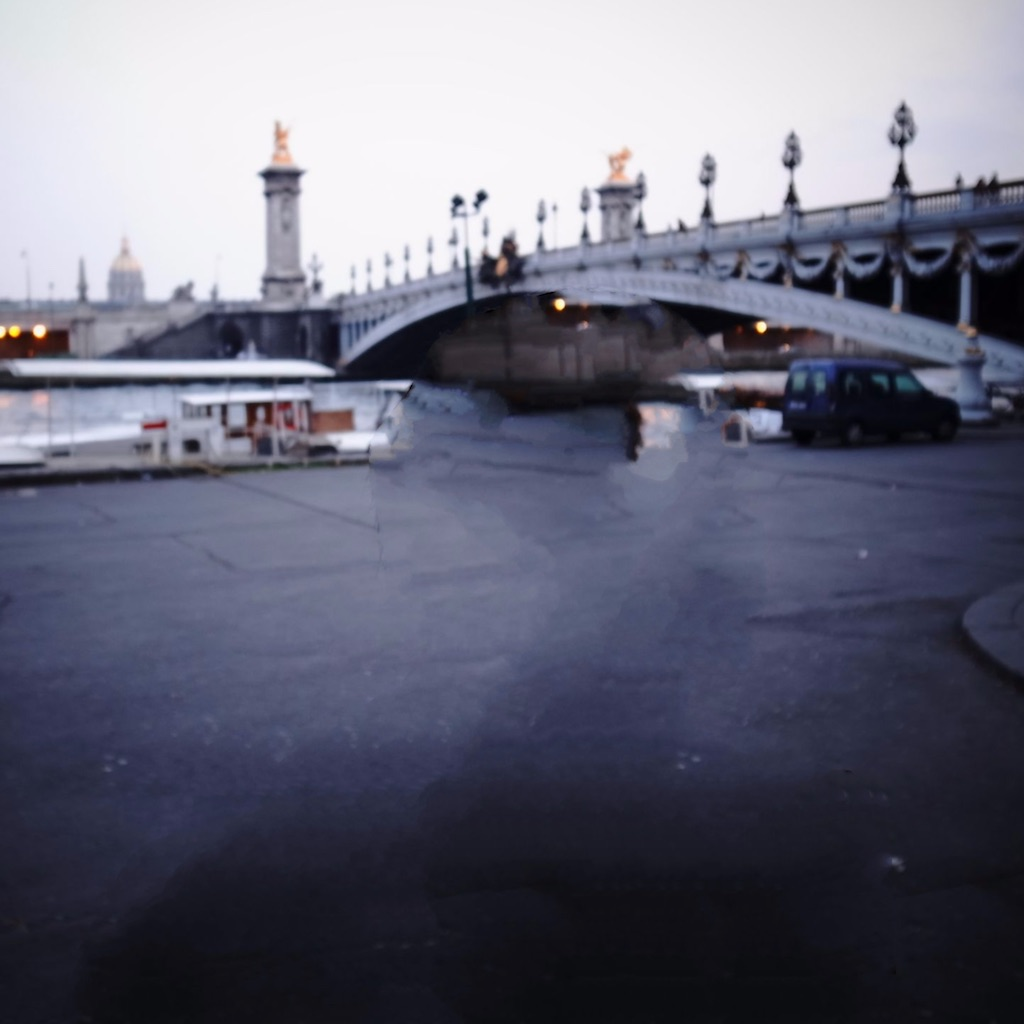
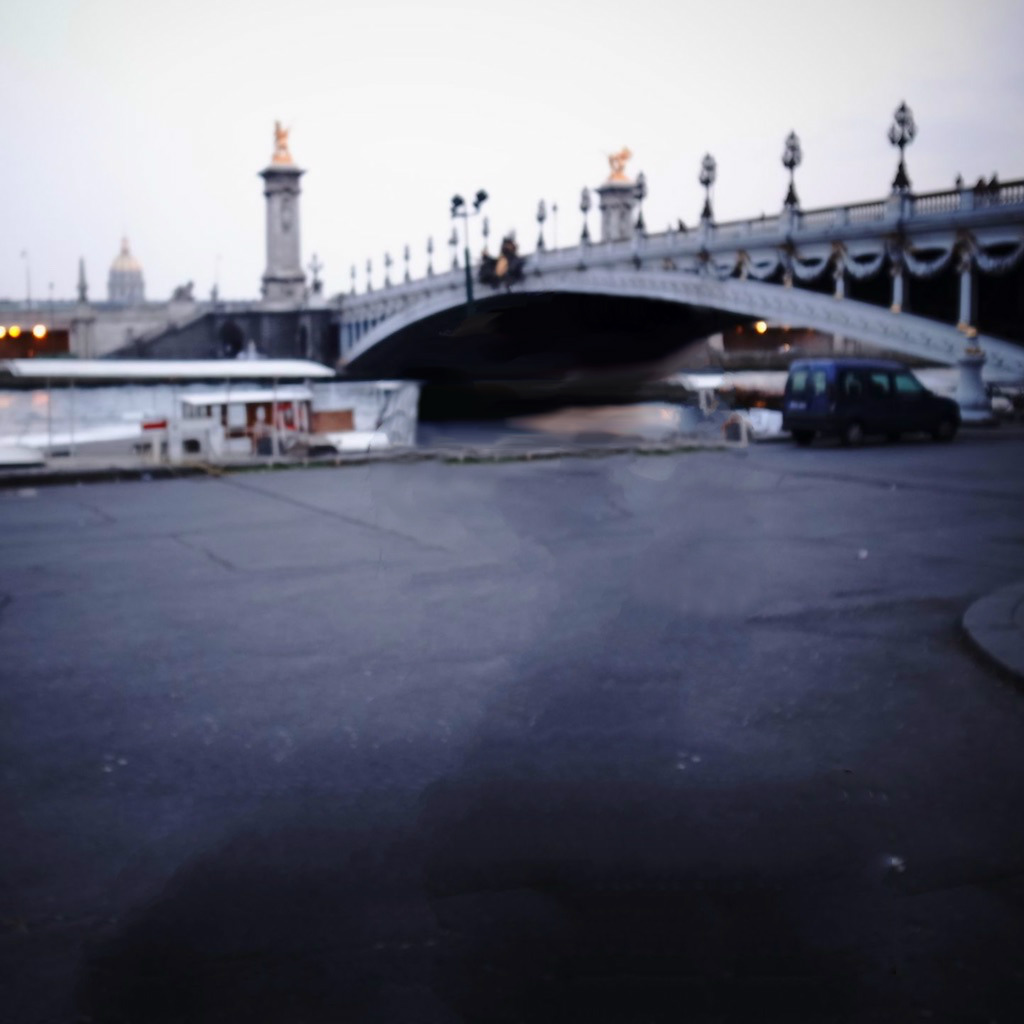
Be creative on the scene image

Changed region(s): [[0.3438, 0.2812, 0.6875, 0.5]]

diff --git a/assets/script.min.js b/assets/script.min.js
@@ -1,2 +1,2 @@
-"use strict";function ServiceWorkerController(){}function PicMotion(){}if(document.documentElement.classList.remove("no-js"),"timdream.org"===window.location.hostname&&"1"!==window.doNotTrack&&"1"!==navigator.doNotTrack){var _gaq=_gaq||[];_gaq.push(["_setAccount","UA-4623408-2"]),_gaq.push(["_trackPageview"]),function(){var e=document.createElement("script");e.type="text/javascript",e.async=!0,e.src="https://ssl.google-analytics.com/ga.js";var t=document.getElementsByTagName("script")[0];t.parentNode.insertBefore(e,t)}()}ServiceWorkerController.prototype={start:function(){"serviceWorker"in navigator?this.check().then(function(){return this.swReg&&(this.swReg.installing||this.swReg.waiting||this.swReg.active)?this.swReg.active?this.swReg.update():void 0:this.install()}.bind(this)).then(function(){this.swReg.addEventListener("updatefound",this),this.showUpdateProgress()}.bind(this)).catch(function(e){console.log(e)}.bind(this)):this.state="notsupported"},check:function(){return navigator.serviceWorker.getRegistration("/").then(function(e){this.swReg=e}.bind(this))},install:function(){return navigator.serviceWorker.register("/service-worker.min.js",{scope:"/"}).then(function(e){this.swReg=e}.bind(this))},remove:function(){this.state="removing",this.swReg.unregister().then(function(e){e?(this.state="uninstalled",this.swReg=null):this.state="installed"}.bind(this))},showUpdateProgress:function(){this.swReg.installing&&navigator.serviceWorker.controller&&(document.documentElement.classList.add("updating"),this.swReg.installing.addEventListener("statechange",this))},handleEvent:function(e){switch(e.type){case"updatefound":this.showUpdateProgress();break;case"statechange":if(e.target.removeEventListener("statechange",this),"redundant"===e.target.state)return void document.documentElement.classList.remove("updating");window.location.reload()}}},window.swController=new ServiceWorkerController,window.swController.start(),window.addEventListener("pagehide",function(){document.body.classList.add("pagehide")}),window.addEventListener("pageshow",function(){document.body.classList.remove("pagehide")}),PicMotion.prototype={MAX_DEG_MOUSE:20,MAX_DEG_TOUCH:10,start:function(){var e=this.areaEl=document.getElementById("motion-pic");if(e){var t=this.foregroundEl=document.createElement("img");t.className="pic-foreground",t.src="/assets/reading-signpost-in-paris-foreground.png?_=42be09";var n=this.sceneEl=document.createElement("img");n.className="pic-scene",n.src="/assets/reading-signpost-in-paris-scene.jpg?_=2a94d6",e.insertBefore(t,e.firstChild),e.insertBefore(n,e.firstChild),e.addEventListener("touchstart",this),e.addEventListener("touchmove",this),e.addEventListener("touchend",this),e.addEventListener("touchcancel",this),e.addEventListener("mousemove",this),e.addEventListener("mouseleave",this),e.classList.add("motion")}},handleEvent:function(e){switch(e.type){case"touchstart":this.areaEl.removeEventListener("mousemove",this),this.areaEl.removeEventListener("mouseleave",this);break;case"touchmove":case"mousemove":var t=2*("offsetX"in e?this.MAX_DEG_MOUSE*((e.offsetX-150)/300):this.MAX_DEG_TOUCH*(e.touches[0].clientX-window.innerWidth/2)/window.innerWidth),n=-2*("offsetY"in e?this.MAX_DEG_MOUSE*((e.offsetY-150)/300):this.MAX_DEG_TOUCH*(e.touches[0].clientY-window.innerHeight/2)/window.innerHeight);this.updateAngle(function(){this.areaEl.classList.add("active");var e="perspective(500px) rotateX("+n+"deg) rotateY("+t+"deg)";this.foregroundEl.style.transform=e+" translateZ(60px)",this.sceneEl.style.transform=e+" translateZ(-10px)"}.bind(this));break;case"mouseleave":case"touchend":case"touchcancel":this.updateAngle(function(){this.areaEl.classList.remove("active"),this.foregroundEl.style.transform="",this.sceneEl.style.transform=""}.bind(this))}},updateAngle:function(e){(window.cancelAnimationFrame||window.clearTimeout)(this.reqId),this.reqId=(window.requestAnimationFrame||window.setTimeout)(e)}},window.picMotion=new PicMotion,window.picMotion.start();
+"use strict";function ServiceWorkerController(){}function PicMotion(){}if(document.documentElement.classList.remove("no-js"),"timdream.org"===window.location.hostname&&"1"!==window.doNotTrack&&"1"!==navigator.doNotTrack){var _gaq=_gaq||[];_gaq.push(["_setAccount","UA-4623408-2"]),_gaq.push(["_trackPageview"]),function(){var e=document.createElement("script");e.type="text/javascript",e.async=!0,e.src="https://ssl.google-analytics.com/ga.js";var t=document.getElementsByTagName("script")[0];t.parentNode.insertBefore(e,t)}()}ServiceWorkerController.prototype={start:function(){"serviceWorker"in navigator?this.check().then(function(){return this.swReg&&(this.swReg.installing||this.swReg.waiting||this.swReg.active)?this.swReg.active?this.swReg.update():void 0:this.install()}.bind(this)).then(function(){this.swReg.addEventListener("updatefound",this),this.showUpdateProgress()}.bind(this)).catch(function(e){console.log(e)}.bind(this)):this.state="notsupported"},check:function(){return navigator.serviceWorker.getRegistration("/").then(function(e){this.swReg=e}.bind(this))},install:function(){return navigator.serviceWorker.register("/service-worker.min.js",{scope:"/"}).then(function(e){this.swReg=e}.bind(this))},remove:function(){this.state="removing",this.swReg.unregister().then(function(e){e?(this.state="uninstalled",this.swReg=null):this.state="installed"}.bind(this))},showUpdateProgress:function(){this.swReg.installing&&navigator.serviceWorker.controller&&(document.documentElement.classList.add("updating"),this.swReg.installing.addEventListener("statechange",this))},handleEvent:function(e){switch(e.type){case"updatefound":this.showUpdateProgress();break;case"statechange":if(e.target.removeEventListener("statechange",this),"redundant"===e.target.state)return void document.documentElement.classList.remove("updating");window.location.reload()}}},window.swController=new ServiceWorkerController,window.swController.start(),window.addEventListener("pagehide",function(){document.body.classList.add("pagehide")}),window.addEventListener("pageshow",function(){document.body.classList.remove("pagehide")}),PicMotion.prototype={MAX_DEG_MOUSE:20,MAX_DEG_TOUCH:10,start:function(){var e=this.areaEl=document.getElementById("motion-pic");if(e){var t=this.foregroundEl=document.createElement("img");t.className="pic-foreground",t.src="/assets/reading-signpost-in-paris-foreground.png?_=42be09";var n=this.sceneEl=document.createElement("img");n.className="pic-scene",n.src="/assets/reading-signpost-in-paris-scene.jpg?_=39d0e9",e.insertBefore(t,e.firstChild),e.insertBefore(n,e.firstChild),e.addEventListener("touchstart",this),e.addEventListener("touchmove",this),e.addEventListener("touchend",this),e.addEventListener("touchcancel",this),e.addEventListener("mousemove",this),e.addEventListener("mouseleave",this),e.classList.add("motion")}},handleEvent:function(e){switch(e.type){case"touchstart":this.areaEl.removeEventListener("mousemove",this),this.areaEl.removeEventListener("mouseleave",this);break;case"touchmove":case"mousemove":var t=2*("offsetX"in e?this.MAX_DEG_MOUSE*((e.offsetX-150)/300):this.MAX_DEG_TOUCH*(e.touches[0].clientX-window.innerWidth/2)/window.innerWidth),n=-2*("offsetY"in e?this.MAX_DEG_MOUSE*((e.offsetY-150)/300):this.MAX_DEG_TOUCH*(e.touches[0].clientY-window.innerHeight/2)/window.innerHeight);this.updateAngle(function(){this.areaEl.classList.add("active");var e="perspective(500px) rotateX("+n+"deg) rotateY("+t+"deg)";this.foregroundEl.style.transform=e+" translateZ(60px)",this.sceneEl.style.transform=e+" translateZ(-10px)"}.bind(this));break;case"mouseleave":case"touchend":case"touchcancel":this.updateAngle(function(){this.areaEl.classList.remove("active"),this.foregroundEl.style.transform="",this.sceneEl.style.transform=""}.bind(this))}},updateAngle:function(e){(window.cancelAnimationFrame||window.clearTimeout)(this.reqId),this.reqId=(window.requestAnimationFrame||window.setTimeout)(e)}},window.picMotion=new PicMotion,window.picMotion.start();
 //# sourceMappingURL=script.min.js.map

diff --git a/service-worker.min.js b/service-worker.min.js
@@ -1,3 +1,3 @@
-"use strict";/*! Hash: d5cbb710c98bfc85b601321a01d011db */
-const cacheKey="profile",fileList="./ assets/45-degree-fabric-dark.png?_=fe52ed assets/academia-sinica.svg?_=38ca46 assets/asmcrypto-decipher.min.js?_=189c07 assets/asmcrypto.js?_=fa9483 assets/cv.min.css?_=cc4e66 assets/cv.min.js?_=796346 assets/demolab-screenshot.jpg?_=632367 assets/demolab.svg?_=1ad974 assets/firefox-os-commit.svg?_=8fa997 assets/firefox-os-keyboard.png?_=a4f28a assets/firefox-os.png?_=907a94 assets/firefox.png?_=aa3132 assets/jszhuyin-learn.gif?_=d56f91 assets/jszhuyin.svg?_=9caf29 assets/little-pluses.png?_=3ab494 assets/moztw-gfx-tw-tim.jpg?_=c311b2 assets/moztw-ie8.jpg?_=c2f527 assets/moztw.png?_=53d1f2 assets/owl-publishing.svg?_=eb546e assets/reading-signpost-in-paris-foreground.png?_=42be09 assets/reading-signpost-in-paris-scene.jpg?_=2a94d6 assets/reading-signpost-in-paris.jpg?_=7c2074 assets/script.min.js?_=dbaf42 assets/style.min.css?_=4523cd assets/tiramisu-icon-64-shadow.png?_=3d869c assets/webcrypto-decipher.min.js?_=ae158a assets/wordcloud-example-noscript.jpg?_=318640 assets/wordcloud.svg?_=fd516a cv/ cv/steps.json.aes?_=08f817 cv/timdream-private.pdf.aes?_=193374 cv/timdream.pdf?_=3e8aff portfolio/academia-sinica/ portfolio/demolab/ portfolio/firefox-os/ portfolio/firefox/ portfolio/jszhuyin/ portfolio/moztw/ portfolio/owl-publishing/ portfolio/wordcloud/".split(" ").map(s=>new URL(s,self.location).href);self.oninstall=(s=>{s.waitUntil(self.caches.open(cacheKey).then(s=>Promise.all([s,s.keys()])).then(([s,e])=>{let a=e.map(s=>s.url);return s.addAll([].concat(fileList).filter(s=>!(s.includes("?_=")&&a.includes(s))))}))}),self.onactivate=(s=>{s.waitUntil(self.caches.open(cacheKey).then(s=>Promise.all([s,s.keys()])).then(([s,e])=>e.filter(s=>!fileList.includes(s.url)).map(e=>s.delete(e))))}),self.onfetch=(s=>{-1!==fileList.indexOf(s.request.url)&&s.respondWith(caches.open(cacheKey).then(e=>e.match(s.request)).then(e=>e||fetch(s.request)))});
+"use strict";/*! Hash: d9e6a2a7a54c7ba7514b0ae256356b67 */
+const cacheKey="profile",fileList="./ assets/45-degree-fabric-dark.png?_=fe52ed assets/academia-sinica.svg?_=38ca46 assets/asmcrypto-decipher.min.js?_=189c07 assets/asmcrypto.js?_=fa9483 assets/cv.min.css?_=cc4e66 assets/cv.min.js?_=796346 assets/demolab-screenshot.jpg?_=632367 assets/demolab.svg?_=1ad974 assets/firefox-os-commit.svg?_=8fa997 assets/firefox-os-keyboard.png?_=a4f28a assets/firefox-os.png?_=907a94 assets/firefox.png?_=aa3132 assets/jszhuyin-learn.gif?_=d56f91 assets/jszhuyin.svg?_=9caf29 assets/little-pluses.png?_=3ab494 assets/moztw-gfx-tw-tim.jpg?_=c311b2 assets/moztw-ie8.jpg?_=c2f527 assets/moztw.png?_=53d1f2 assets/owl-publishing.svg?_=eb546e assets/reading-signpost-in-paris-foreground.png?_=42be09 assets/reading-signpost-in-paris-scene.jpg?_=39d0e9 assets/reading-signpost-in-paris.jpg?_=7c2074 assets/script.min.js?_=d412a5 assets/style.min.css?_=4523cd assets/tiramisu-icon-64-shadow.png?_=3d869c assets/webcrypto-decipher.min.js?_=ae158a assets/wordcloud-example-noscript.jpg?_=318640 assets/wordcloud.svg?_=fd516a cv/ cv/steps.json.aes?_=08f817 cv/timdream-private.pdf.aes?_=193374 cv/timdream.pdf?_=3e8aff portfolio/academia-sinica/ portfolio/demolab/ portfolio/firefox-os/ portfolio/firefox/ portfolio/jszhuyin/ portfolio/moztw/ portfolio/owl-publishing/ portfolio/wordcloud/".split(" ").map(s=>new URL(s,self.location).href);self.oninstall=(s=>{s.waitUntil(self.caches.open(cacheKey).then(s=>Promise.all([s,s.keys()])).then(([s,e])=>{let a=e.map(s=>s.url);return s.addAll([].concat(fileList).filter(s=>!(s.includes("?_=")&&a.includes(s))))}))}),self.onactivate=(s=>{s.waitUntil(self.caches.open(cacheKey).then(s=>Promise.all([s,s.keys()])).then(([s,e])=>e.filter(s=>!fileList.includes(s.url)).map(e=>s.delete(e))))}),self.onfetch=(s=>{-1!==fileList.indexOf(s.request.url)&&s.respondWith(caches.open(cacheKey).then(e=>e.match(s.request)).then(e=>e||fetch(s.request)))});
 //# sourceMappingURL=service-worker.min.js.map

diff --git a/service-worker.js b/service-worker.js
@@ -2,12 +2,12 @@
 
 // This version cache will trigger the browser to
 // install the new service worker.
-/*! Hash: d5cbb710c98bfc85b601321a01d011db */
+/*! Hash: d9e6a2a7a54c7ba7514b0ae256356b67 */
 
 const cacheKey = 'profile';
 
 // List of paths with correct hashes (if the request needs it)
-const fileList = './ assets/45-degree-fabric-dark.png?_=fe52ed assets/academia-sinica.svg?_=38ca46 assets/asmcrypto-decipher.min.js?_=189c07 assets/asmcrypto.js?_=fa9483 assets/cv.min.css?_=cc4e66 assets/cv.min.js?_=796346 assets/demolab-screenshot.jpg?_=632367 assets/demolab.svg?_=1ad974 assets/firefox-os-commit.svg?_=8fa997 assets/firefox-os-keyboard.png?_=a4f28a assets/firefox-os.png?_=907a94 assets/firefox.png?_=aa3132 assets/jszhuyin-learn.gif?_=d56f91 assets/jszhuyin.svg?_=9caf29 assets/little-pluses.png?_=3ab494 assets/moztw-gfx-tw-tim.jpg?_=c311b2 assets/moztw-ie8.jpg?_=c2f527 assets/moztw.png?_=53d1f2 assets/owl-publishing.svg?_=eb546e assets/reading-signpost-in-paris-foreground.png?_=42be09 assets/reading-signpost-in-paris-scene.jpg?_=2a94d6 assets/reading-signpost-in-paris.jpg?_=7c2074 assets/script.min.js?_=dbaf42 assets/style.min.css?_=4523cd assets/tiramisu-icon-64-shadow.png?_=3d869c assets/webcrypto-decipher.min.js?_=ae158a assets/wordcloud-example-noscript.jpg?_=318640 assets/wordcloud.svg?_=fd516a cv/ cv/steps.json.aes?_=08f817 cv/timdream-private.pdf.aes?_=193374 cv/timdream.pdf?_=3e8aff portfolio/academia-sinica/ portfolio/demolab/ portfolio/firefox-os/ portfolio/firefox/ portfolio/jszhuyin/ portfolio/moztw/ portfolio/owl-publishing/ portfolio/wordcloud/'
+const fileList = './ assets/45-degree-fabric-dark.png?_=fe52ed assets/academia-sinica.svg?_=38ca46 assets/asmcrypto-decipher.min.js?_=189c07 assets/asmcrypto.js?_=fa9483 assets/cv.min.css?_=cc4e66 assets/cv.min.js?_=796346 assets/demolab-screenshot.jpg?_=632367 assets/demolab.svg?_=1ad974 assets/firefox-os-commit.svg?_=8fa997 assets/firefox-os-keyboard.png?_=a4f28a assets/firefox-os.png?_=907a94 assets/firefox.png?_=aa3132 assets/jszhuyin-learn.gif?_=d56f91 assets/jszhuyin.svg?_=9caf29 assets/little-pluses.png?_=3ab494 assets/moztw-gfx-tw-tim.jpg?_=c311b2 assets/moztw-ie8.jpg?_=c2f527 assets/moztw.png?_=53d1f2 assets/owl-publishing.svg?_=eb546e assets/reading-signpost-in-paris-foreground.png?_=42be09 assets/reading-signpost-in-paris-scene.jpg?_=39d0e9 assets/reading-signpost-in-paris.jpg?_=7c2074 assets/script.min.js?_=d412a5 assets/style.min.css?_=4523cd assets/tiramisu-icon-64-shadow.png?_=3d869c assets/webcrypto-decipher.min.js?_=ae158a assets/wordcloud-example-noscript.jpg?_=318640 assets/wordcloud.svg?_=fd516a cv/ cv/steps.json.aes?_=08f817 cv/timdream-private.pdf.aes?_=193374 cv/timdream.pdf?_=3e8aff portfolio/academia-sinica/ portfolio/demolab/ portfolio/firefox-os/ portfolio/firefox/ portfolio/jszhuyin/ portfolio/moztw/ portfolio/owl-publishing/ portfolio/wordcloud/'
   .split(' ').map(relativeURL => (new URL(relativeURL, self.location)).href);
 
 // Install our resources into the cache.

diff --git a/portfolio/wordcloud/index.html b/portfolio/wordcloud/index.html
@@ -109,7 +109,7 @@ header h1 {
     <link href="https://fonts.googleapis.com/css?family=Merriweather:700" rel="stylesheet" type="text/css">
     <link href="assets/style.min.css?_=4523cd" rel="stylesheet" type="text/css">
   </noscript>
-  <script type="text/javascript" src="/assets/script.min.js?_=dbaf42" defer></script>
+  <script type="text/javascript" src="/assets/script.min.js?_=d412a5" defer></script>
 <script src="https://timdream.org/wordcloud2.js/src/wordcloud2.js" defer></script>
 <script>
 

diff --git a/portfolio/academia-sinica/index.html b/portfolio/academia-sinica/index.html
@@ -109,7 +109,7 @@ header h1 {
     <link href="https://fonts.googleapis.com/css?family=Merriweather:700" rel="stylesheet" type="text/css">
     <link href="assets/style.min.css?_=4523cd" rel="stylesheet" type="text/css">
   </noscript>
-  <script type="text/javascript" src="/assets/script.min.js?_=dbaf42" defer></script>
+  <script type="text/javascript" src="/assets/script.min.js?_=d412a5" defer></script>
 </head>
 <body>
 <header class="main">

diff --git a/portfolio/demolab/index.html b/portfolio/demolab/index.html
@@ -109,7 +109,7 @@ header h1 {
     <link href="https://fonts.googleapis.com/css?family=Merriweather:700" rel="stylesheet" type="text/css">
     <link href="assets/style.min.css?_=4523cd" rel="stylesheet" type="text/css">
   </noscript>
-  <script type="text/javascript" src="/assets/script.min.js?_=dbaf42" defer></script>
+  <script type="text/javascript" src="/assets/script.min.js?_=d412a5" defer></script>
 </head>
 <body>
 <header class="main">

diff --git a/portfolio/firefox-os/index.html b/portfolio/firefox-os/index.html
@@ -109,7 +109,7 @@ header h1 {
     <link href="https://fonts.googleapis.com/css?family=Merriweather:700" rel="stylesheet" type="text/css">
     <link href="assets/style.min.css?_=4523cd" rel="stylesheet" type="text/css">
   </noscript>
-  <script type="text/javascript" src="/assets/script.min.js?_=dbaf42" defer></script>
+  <script type="text/javascript" src="/assets/script.min.js?_=d412a5" defer></script>
 </head>
 <body>
 <header class="main">

diff --git a/portfolio/firefox/index.html b/portfolio/firefox/index.html
@@ -109,7 +109,7 @@ header h1 {
     <link href="https://fonts.googleapis.com/css?family=Merriweather:700" rel="stylesheet" type="text/css">
     <link href="assets/style.min.css?_=4523cd" rel="stylesheet" type="text/css">
   </noscript>
-  <script type="text/javascript" src="/assets/script.min.js?_=dbaf42" defer></script>
+  <script type="text/javascript" src="/assets/script.min.js?_=d412a5" defer></script>
 </head>
 <body>
 <header class="main">

diff --git a/portfolio/jszhuyin/index.html b/portfolio/jszhuyin/index.html
@@ -109,7 +109,7 @@ header h1 {
     <link href="https://fonts.googleapis.com/css?family=Merriweather:700" rel="stylesheet" type="text/css">
     <link href="assets/style.min.css?_=4523cd" rel="stylesheet" type="text/css">
   </noscript>
-  <script type="text/javascript" src="/assets/script.min.js?_=dbaf42" defer></script>
+  <script type="text/javascript" src="/assets/script.min.js?_=d412a5" defer></script>
 </head>
 <body>
 <header class="main">

diff --git a/portfolio/moztw/index.html b/portfolio/moztw/index.html
@@ -109,7 +109,7 @@ header h1 {
     <link href="https://fonts.googleapis.com/css?family=Merriweather:700" rel="stylesheet" type="text/css">
     <link href="assets/style.min.css?_=4523cd" rel="stylesheet" type="text/css">
   </noscript>
-  <script type="text/javascript" src="/assets/script.min.js?_=dbaf42" defer></script>
+  <script type="text/javascript" src="/assets/script.min.js?_=d412a5" defer></script>
 </head>
 <body>
 <header class="main">

diff --git a/portfolio/owl-publishing/index.html b/portfolio/owl-publishing/index.html
@@ -109,7 +109,7 @@ header h1 {
     <link href="https://fonts.googleapis.com/css?family=Merriweather:700" rel="stylesheet" type="text/css">
     <link href="assets/style.min.css?_=4523cd" rel="stylesheet" type="text/css">
   </noscript>
-  <script type="text/javascript" src="/assets/script.min.js?_=dbaf42" defer></script>
+  <script type="text/javascript" src="/assets/script.min.js?_=d412a5" defer></script>
 </head>
 <body>
 <header class="main">

diff --git a/assets/script.js b/assets/script.js
@@ -125,7 +125,7 @@ PicMotion.prototype = {
 
     var sceneEl = this.sceneEl = document.createElement('img');
     sceneEl.className = 'pic-scene';
-    sceneEl.src = '/assets/reading-signpost-in-paris-scene.jpg?_=2a94d6';
+    sceneEl.src = '/assets/reading-signpost-in-paris-scene.jpg?_=39d0e9';
 
     areaEl.insertBefore(foregroundEl, areaEl.firstChild);
     areaEl.insertBefore(sceneEl, areaEl.firstChild);
